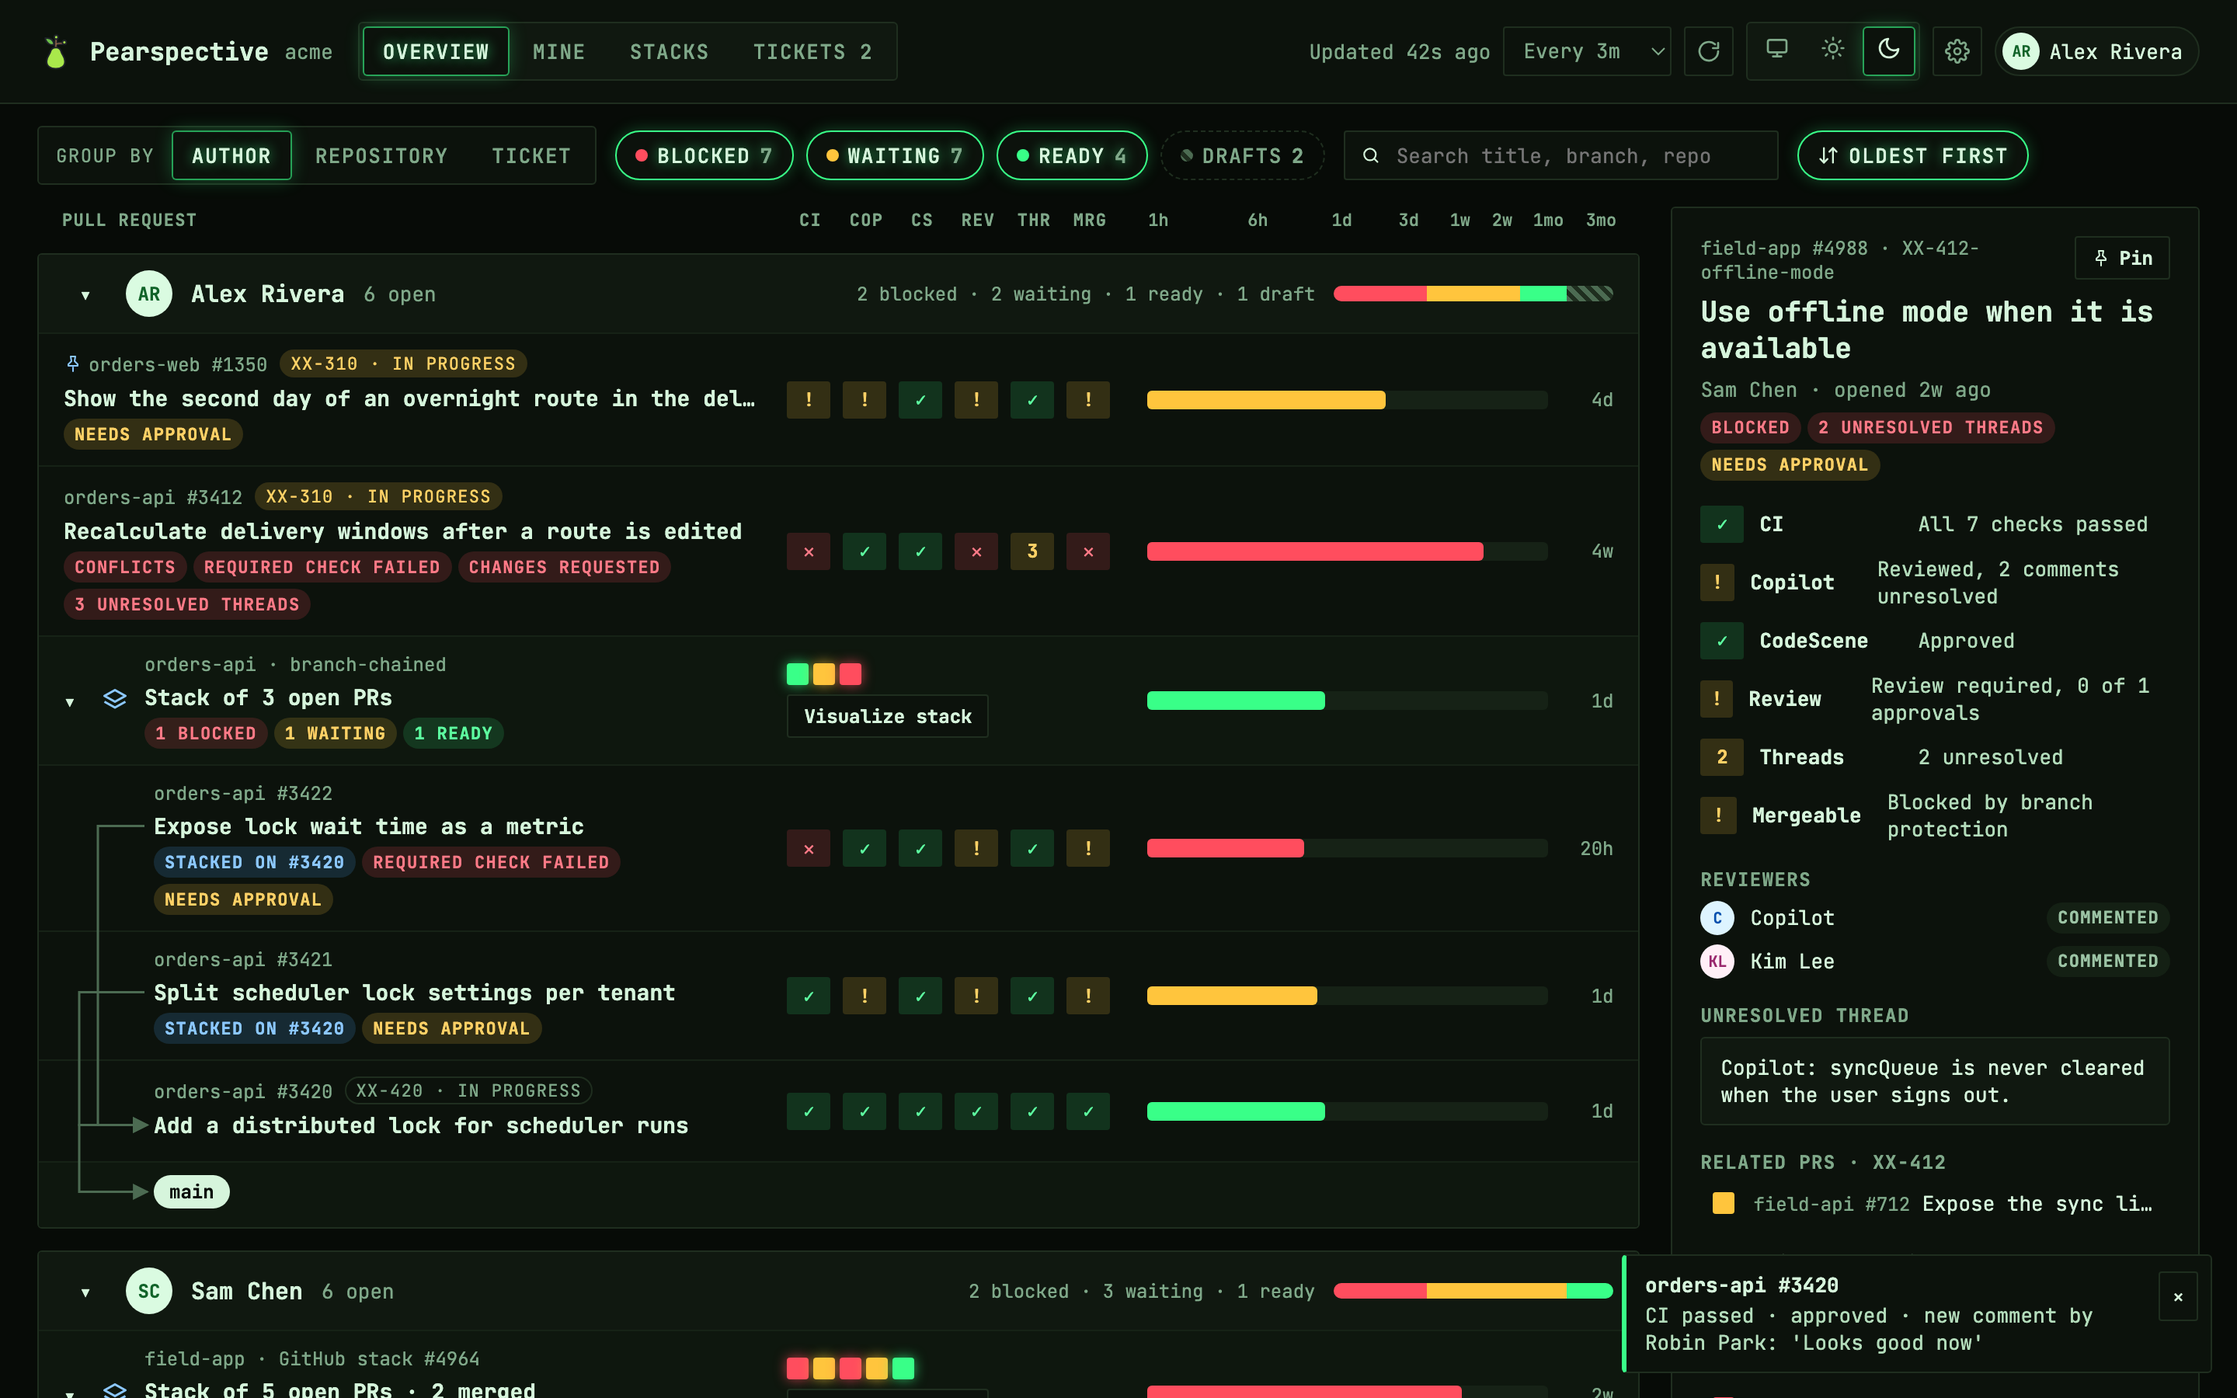
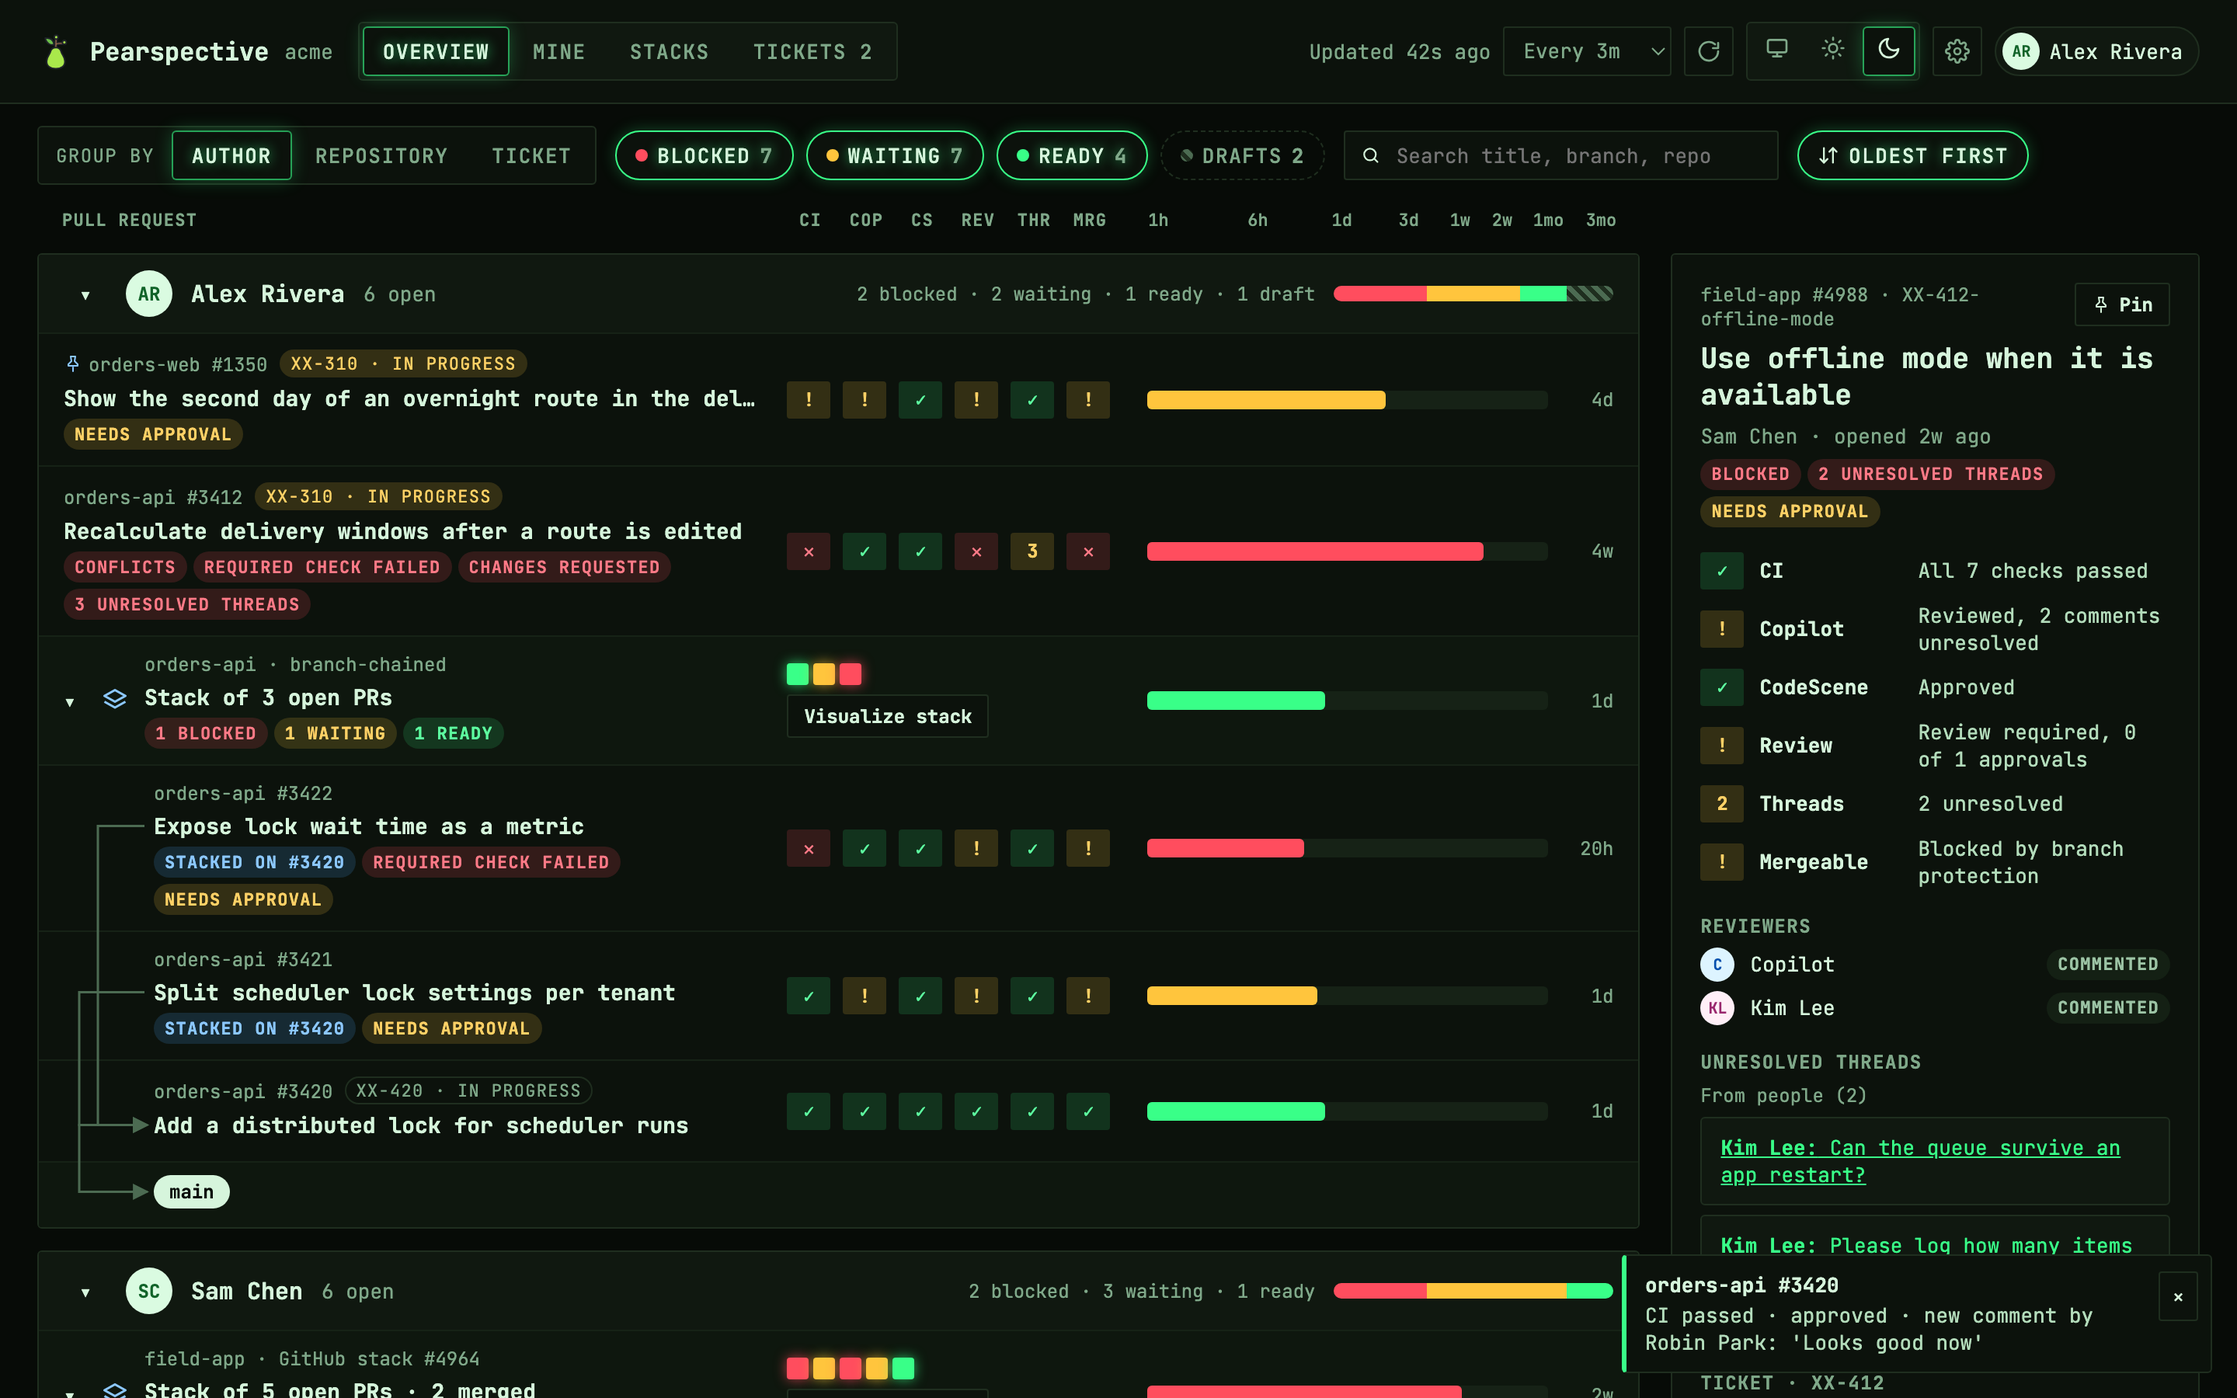
Bring the mockup, screenshots and README up to date with the current app.

Changed region(s): [[0.75, 0.1556, 0.9688, 0.9022], [0.8125, 0.9644, 0.8438, 0.9956]]

diff --git a/docs/mockup/overview-swimlanes.html b/docs/mockup/overview-swimlanes.html
@@ -45,7 +45,7 @@ body{margin:0;background:var(--bg);font-family:Inter,system-ui,sans-serif;color:
 a{color:var(--accent)}a:hover{color:var(--b-fg)}
 button,input,select{font:inherit;color:inherit}
 :focus-visible{outline:2px solid var(--accent);outline-offset:2px}
-.wrap{max-width:1440px;margin:0 auto;padding-bottom:48px}
+.wrap{padding-bottom:48px}
 header{display:flex;flex-wrap:wrap;align-items:center;gap:16px;padding:14px 24px;background:var(--surface);border-bottom:1px solid var(--border)}
 .brand{display:flex;align-items:center;gap:10px}.brand b{font-size:16px}.brand span{font-size:13px;color:var(--muted)}
 .segs{display:flex;gap:4px;background:var(--subtle);border:1px solid var(--border);border-radius:8px;padding:3px;align-items:center}
@@ -123,7 +123,10 @@ aside{flex:1 1 340px;min-width:0;position:sticky;top:16px;max-height:calc(100vh 
 aside h2{margin:0;font-size:18px;line-height:1.3}
 .sec{font-size:12px;font-weight:600;color:var(--muted);text-transform:uppercase;letter-spacing:.04em}
 .sline{display:flex;align-items:center;gap:10px;font-size:13px}.sline b{width:92px}
-.snip{font-size:13px;background:var(--subtle);border:1px solid var(--border);border-radius:8px;padding:10px 12px}
+.snip{display:block;overflow-wrap:anywhere;font-size:13px;background:var(--subtle);border:1px solid var(--border);border-radius:8px;padding:10px 12px}
+.thread-group{display:flex;flex-direction:column;gap:6px}.thread-group summary{cursor:pointer;width:fit-content}
+.sline>.dot,.sline>b,.sline>.badge,.sline>.av{flex-shrink:0}
+@media (min-width:1101px){aside{margin-top:30px}}
 .mini{display:grid;grid-template-columns:18px minmax(0,1fr);gap:8px;align-items:center;padding:6px 8px;border-radius:6px;cursor:pointer;font-size:13px}
 .mini:hover{background:var(--subtle)}.mini.cur{background:var(--sel)}
 .mini i{width:14px;height:14px;border-radius:4px}
@@ -204,7 +207,7 @@ const PRS = [
   {id:'m5', author:'Alex Rivera', repo:'orders-api', num:3421, branch:'XX-421-lock-settings', title:'Split scheduler lock settings per tenant', h:26, ci:'g', cop:'a', copOpen:1, cs:'g', rev:'a', thr:0, merge:'BLOCKED', stack:'s2', parent:'m3', behind:0, revs:[]},
   {id:'m6', author:'Alex Rivera', repo:'orders-api', num:3422, branch:'XX-422-lock-metrics', title:'Expose lock wait time as a metric', h:20, ci:'r', failCheck:'unit-tests', cop:'g', cs:'g', rev:'a', thr:0, merge:'BLOCKED', stack:'s2', parent:'m3', behind:2, revs:[]},
   {id:'m4', author:'Alex Rivera', repo:'orders-deploy', num:288, branch:'raise-scheduler-memory', title:'Raise scheduler memory limits in test', h:5, draft:true, ci:'g', cop:'n', cs:'n', rev:'a', thr:0, merge:'BLOCKED', revs:[]},
-  {id:'e1', author:'Sam Chen', repo:'field-app', num:4988, branch:'XX-412-offline-mode', title:'Use offline mode when it is available', h:410, ci:'g', cop:'a', copOpen:2, cs:'g', rev:'a', thr:2, merge:'BLOCKED', stack:'s1', behind:0, revs:[['Copilot','COMMENTED'],['Kim Lee','COMMENTED']], snippet:'Copilot: syncQueue is never cleared when the user signs out.'},
+  {id:'e1', author:'Sam Chen', repo:'field-app', num:4988, branch:'XX-412-offline-mode', title:'Use offline mode when it is available', h:410, ci:'g', cop:'a', copOpen:2, cs:'g', rev:'a', thr:2, merge:'BLOCKED', stack:'s1', behind:0, revs:[['Copilot','COMMENTED'],['Kim Lee','COMMENTED']], threads:[['Kim Lee','Can the queue survive an app restart?'],['Kim Lee','Please log how many items were replayed.'],['Copilot','syncQueue is never cleared when the user signs out.'],['Copilot','The retry delay is never reset after a success.']]},
   {id:'e2', author:'Sam Chen', repo:'field-app', num:4989, branch:'XX-413-orders-offline', title:'Show orders offline', h:380, ci:'g', cop:'g', cs:'g', rev:'a', thr:0, merge:'BLOCKED', stack:'s1', parent:'e1', behind:0, revs:[]},
   {id:'e3', author:'Sam Chen', repo:'field-app', num:4990, branch:'XX-414-history-offline', title:'Show the order history offline', h:360, ci:'r', failCheck:'e2e-android', cop:'g', cs:'g', rev:'a', thr:0, merge:'BLOCKED', stack:'s1', parent:'e2', behind:3, revs:[]},
   {id:'e4', author:'Sam Chen', repo:'field-app', num:4991, branch:'XX-415-prefetch', title:'Prefetch orders and history', h:300, ci:'a', cop:'a', cs:'g', rev:'a', thr:0, merge:'BLOCKED', stack:'s1', parent:'e3', behind:1, revs:[]},
@@ -467,6 +470,18 @@ function lanesHtml(){
   </div>`;
 }
 
+// Mirrors the app: people's threads first, automated reviewers folded into their own group.
+function threadsHtml(p){
+  const list = p.threads || (p.snippet ? [[p.snippet.split(':')[0], p.snippet.slice(p.snippet.indexOf(':') + 1).trim()]] : []);
+  if (!list.length) return '';
+  const link = ([who, text]) => `<a class="snip" href="https://github.com" target="_blank" rel="noopener"><b>${esc(who)}:</b> ${esc(text)}</a>`;
+  const people = list.filter(([who]) => who !== 'Copilot');
+  const bots = list.filter(([who]) => who === 'Copilot');
+  return `<div style="display:flex;flex-direction:column;gap:6px"><span class="sec">Unresolved threads</span>
+    ${people.length ? `<div class="thread-group"><span class="muted small">From people (${people.length})</span>${people.map(link).join('')}</div>` : ''}
+    ${bots.length ? `<details class="thread-group"><summary class="muted small">From Copilot (${bots.length})</summary>${bots.map(link).join('')}</details>` : ''}</div>`;
+}
+
 function drawerHtml(){
   const p = BY_ID[state.selected];
   const revs = (p.revs || []).map(r => {
@@ -476,6 +491,7 @@ function drawerHtml(){
   const related = p.ticket ? ALL.filter(x => x.ticket === p.ticket && x.id !== p.id) : [];
   const mini = x => `<div class="mini${x.id === p.id ? ' cur' : ''}" role="button" tabindex="0" data-act="pick" data-id="${x.id}"><i style="background:${CAT[x.cat].c}"></i><span><span class="rn">${esc(x.repo)} #${x.num}</span> ${esc(x.title)}</span></div>`;
   const stack = p.stack ? stackMembers(p.stack, ALL).slice().reverse() : [];
+  const ticket = p.ticket && TICKETS[p.ticket];
   return `<aside aria-label="Pull request detail">
     <div style="display:flex;flex-direction:column;gap:6px">
       <div style="display:flex;align-items:flex-start;gap:8px"><span class="rn grow">${esc(p.repo)} #${p.num} · ${esc(p.branch)}</span>
@@ -486,8 +502,11 @@ function drawerHtml(){
     </div>
     <div style="display:flex;flex-direction:column;gap:8px">${signals(p).map(s => `<div class="sline"><span class="dot k-${s.k}">${esc(s.glyph)}</span><b>${s.full}</b><span style="color:var(--text2)">${esc(s.text)}</span></div>`).join('')}</div>
     ${revs ? `<div style="display:flex;flex-direction:column;gap:6px"><span class="sec">Reviewers</span>${revs}</div>` : ''}
-    ${p.snippet ? `<div style="display:flex;flex-direction:column;gap:6px"><span class="sec">Unresolved thread</span><div class="snip">${esc(p.snippet)}</div></div>` : ''}
-    ${related.length ? `<div style="display:flex;flex-direction:column;gap:4px"><span class="sec">Related PRs · ${esc(p.ticket)}</span>${related.map(mini).join('')}</div>` : ''}
+    ${threadsHtml(p)}
+    ${ticket ? `<div style="display:flex;flex-direction:column;gap:6px"><span class="sec">Ticket · ${esc(p.ticket)}</span><a href="https://jira.example.invalid/browse/${esc(p.ticket)}" target="_blank" rel="noopener">${esc(ticket.summary)} ↗</a>
+      <span style="display:flex;align-items:baseline;gap:8px"><span class="ticket-chip v-${ticket.verdict}" style="margin-left:0">${esc(ticket.status)}</span><span class="small">${esc(ticket.reason)}</span></span>
+      ${related.map(mini).join('')}<button class="btn" style="align-self:flex-start">Show all pull requests for ${esc(p.ticket)}</button></div>`
+      : related.length ? `<div style="display:flex;flex-direction:column;gap:4px"><span class="sec">Related PRs · ${esc(p.ticket)}</span>${related.map(mini).join('')}</div>` : ''}
     ${stack.length ? `<div style="display:flex;flex-direction:column;gap:4px"><span class="sec">Stack (top → base)</span>${stack.map(mini).join('')}<span class="muted small" style="padding-left:8px">↳ ${STACKS[p.stack].merged.length ? STACKS[p.stack].merged.length + ' merged · ' : ''}${STACKS[p.stack].base}</span>
       <button class="btn" data-act="viz" data-id="${p.stack}" style="align-self:flex-start;margin-top:4px">Visualize stack</button></div>` : ''}
     <div style="display:flex;gap:16px;flex-wrap:wrap"><a href="https://github.com" target="_blank" rel="noopener" style="font-weight:600">Open on GitHub ↗</a>${p.ticket ? `<a href="https://jira.example.invalid/browse/${esc(p.ticket)}" target="_blank" rel="noopener" style="font-weight:600">${esc(p.ticket)} in Jira ↗</a>` : ''}</div>
@@ -531,7 +550,7 @@ function render(){
       <span class="who"><span class="av" style="width:24px;height:24px;font-size:10px;${avatar(ME)}">${initials(ME)}</span>${esc(ME)}</span>
     </div>
   </header>
-  ${state.tab === 'tickets' ? '<div class="toolbar"><span class="muted">Tickets referenced by open and recently closed pull requests, checked against their PRs.</span></div>' + ticketsHtml() : state.tab === 'stacks' ? '<div class="toolbar"><span class="muted">Every stack in the selected repos. Hold ' + ZOOM_KEY + ' and scroll to zoom, drag to pan, click a PR to open it.</span></div>' + stacksHtml() : `
+  ${state.tab === 'tickets' ? '<div class="toolbar"><button class="chip off">Mine</button><span class="muted">Tickets referenced by open and recently closed pull requests, checked against their PRs.</span></div>' + ticketsHtml() : state.tab === 'stacks' ? '<div class="toolbar"><span class="muted">Every stack in the selected repos. Hold ' + ZOOM_KEY + ' and scroll to zoom, drag to pan, click a PR to open it.</span></div>' + stacksHtml() : `
   <section class="toolbar">
     ${state.tab === 'overview' ? `<div class="segs" style="background:var(--surface)"><span class="lbl">Group by</span>${seg(state.groupBy === 'author','group','author','Author')}${seg(state.groupBy === 'repo','group','repo','Repository')}${seg(state.groupBy === 'ticket','group','ticket','Ticket')}</div>` : ''}
     <div style="display:flex;flex-wrap:wrap;gap:8px" role="group" aria-label="Status filter">${['blocked','waiting','ready','draft'].map(k => `<button class="chip${state.show[k] ? '' : ' off'}" aria-pressed="${state.show[k]}" data-act="chip" data-val="${k}"><span class="d${k === 'draft' ? ' hatch' : ''}" style="${k === 'draft' ? '' : 'background:' + CAT[k].c}"></span>${{blocked:'Blocked', waiting:'Waiting', ready:'Ready', draft:'Drafts'}[k]}<span class="n">${gCounts[k]}</span></button>`).join('')}</div>

diff --git a/README.md b/README.md
@@ -26,11 +26,13 @@ Pearspective is a small local dashboard that answers them on one screen. It read
 - **Mine**: your PRs, reviews requested from you, and reviews requested from your team.
 - **Stacked PRs**: GitHub's native stacks and branch-chained PRs are grouped, drawn with merge-direction connectors, and shown as zoomable D3 diagrams on the Stacks tab.
 - **Pinning.** Pin a PR from its detail panel and it stays at the top of its lane, whatever the sort order. Pins are saved in `config.json`.
-- **Detail panel** that stays in view while you scroll: failing checks, reviewers, unresolved threads, related PRs for the same ticket, and the stack the PR belongs to.
+- **Detail panel** that stays in view while you scroll: failing checks, reviewers, unresolved threads (people's first, automated reviewers' folded away), the ticket with its other PRs, and the stack the PR belongs to.
 - **Ticket links.** Jira-style keys in branch names or titles (`XX-123`) become links when an issue tracker is configured.
-- **Ticket status (optional).** With [jira-cli](https://github.com/ankitpokhrel/jira-cli) set up, each PR shows its ticket's status, and a **Tickets** tab lists tickets whose status disagrees with their PRs, for example a merged PR whose ticket is still *In Review*.
+- **Ticket status (optional).** With [jira-cli](https://github.com/ankitpokhrel/jira-cli) set up, each PR shows its ticket's status, and a **Tickets** tab lists tickets whose status disagrees with their PRs, for example a merged PR whose ticket is still *In Review*. A **Mine** filter narrows it to tickets you created or are or were assigned to, and the detail panel jumps to a PR's ticket there.
 - **Notifications.** While a dashboard tab is open, you are told when CI fails or passes, a review lands, a conflict appears, or someone comments on one of your PRs: as a toast when the tab is visible, as a browser notification when it is in the background.
-- **Light and dark themes**, following the system by default.
+- **Instant start.** The last state is kept in a local SQLite file, so a restart shows the board at once while the first refresh fetches only what changed.
+- **Themes.** Default (light and dark, following the system) and Terminal, plus your own as small JSON files.
+- **Links that work.** Every view and opened PR has its own URL, and the browser's Back and Forward move between them.
 
 ## Requirements
 
@@ -60,7 +62,7 @@ To run without the dev server, build the UI once and serve everything from the A
 npm run build && npm start   # http://127.0.0.1:4100
 ```
 
-To change the repositories later, use the settings button in the header, or run `npm run setup` again.
+To change the repositories later, use the settings button in the header (**Repositories** tab), or run `npm run setup` again. Settings also has **Notifications** and **Appearance** tabs.
 
 ## Configuration
 
@@ -70,6 +72,8 @@ To change the repositories later, use the settings button in the header, or run 
 | --- | --- |
 | `codeHost.org` | The GitHub organisation. |
 | `codeHost.repos` | The Overview repositories (max 10). |
+| `codeHost.excludeRepos` | Repositories to leave out of the Overview even if listed. |
+| `codeHost.localRepos` | Repositories cloned next to Pearspective, found by setup; the settings panel marks the others "not cloned". |
 | `codeHost.teams` | Teams for the "Review requested from my team" section. Detected by setup. |
 | `reviewerClasses` | Which bot logins count as AI review and code analysis. A trailing `*` matches a prefix. |
 | `refreshIntervalSec` | `0` (off), `180`, `300`, `600`, `900` or `1800`. Also editable from the header. |
@@ -116,7 +120,7 @@ How tickets are judged:
 
 ## Notifications
 
-Turn them on in the settings panel (or add a `notifications` block to `config.json`), then click **Allow desktop notifications** once per browser.
+Turn them on in the settings panel's **Notifications** tab (or add a `notifications` block to `config.json`), then click **Allow desktop notifications** once per browser.
 
 ```json
 "notifications": {
@@ -177,12 +181,16 @@ Pearspective is careful with your GraphQL budget (5,000 points an hour):
 - **"gh is not logged in"**: run `gh auth login`, or `gh auth switch` if the wrong account is active. The header shows which login is in use.
 - **"Last refresh failed …"**: the data shown is from the last good refresh, and the banner says why it failed.
 - **The server log** prints one line per refresh with the PR count and the API points left.
+- **"Local database unavailable …"**: the database file could not be opened; Pearspective works as before but loads everything from GitHub on each start. Stop it, delete `pearspective.db` and its `-wal`/`-shm` files, and start again.
+- **"Theme '…' is unavailable …"**: the chosen theme file is missing or invalid, so Default is used. The Appearance tab shows what is wrong with the file.
 
 ## Development
 
 ```bash
 npm test                 # Vitest
 npm run typecheck
+npm run themes:schema    # regenerate themes/theme.schema.json after changing the theme schema
+npm run db:generate      # generate a database migration after changing server/storage/schema.ts
 scripts/build-icons.sh   # regenerate the favicons from the SVGs in docs/assets (macOS, needs Chrome)
 ```
 
